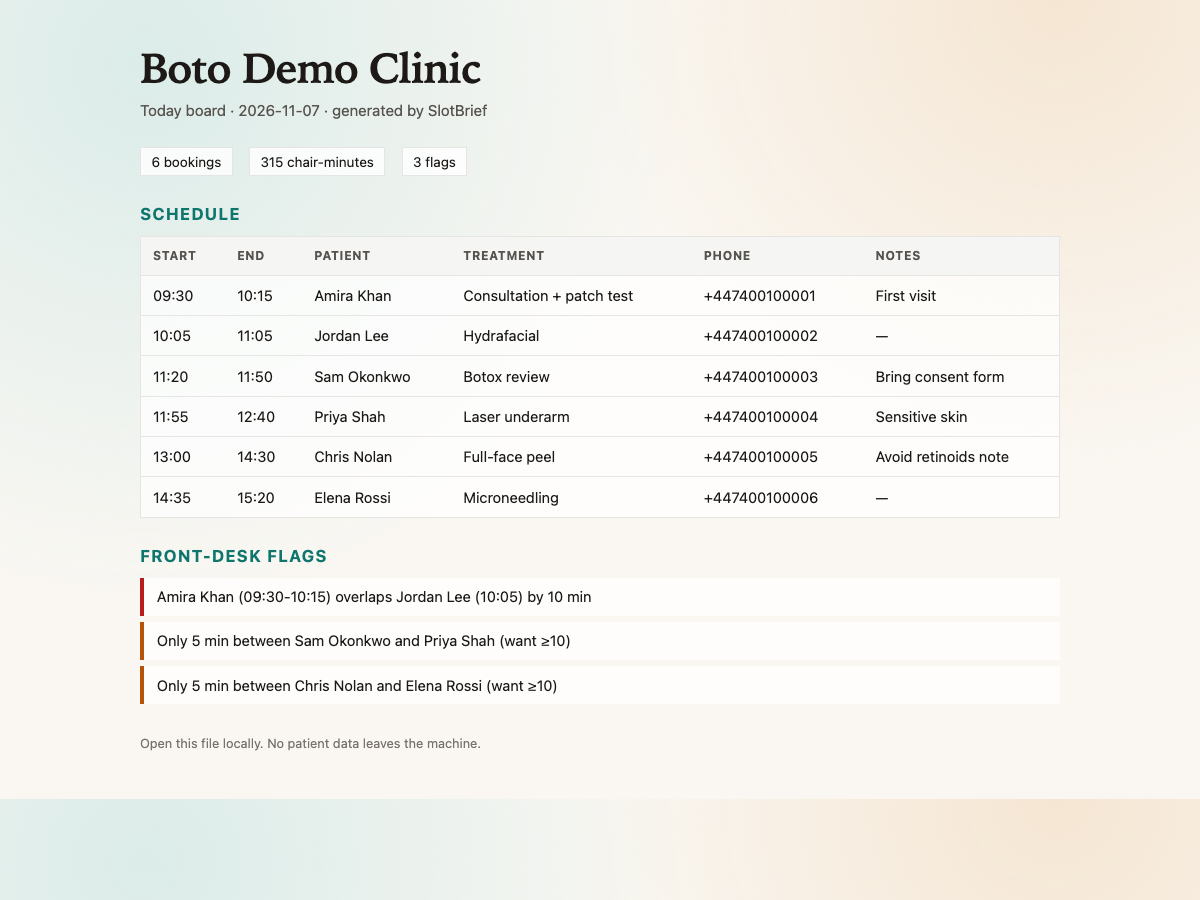
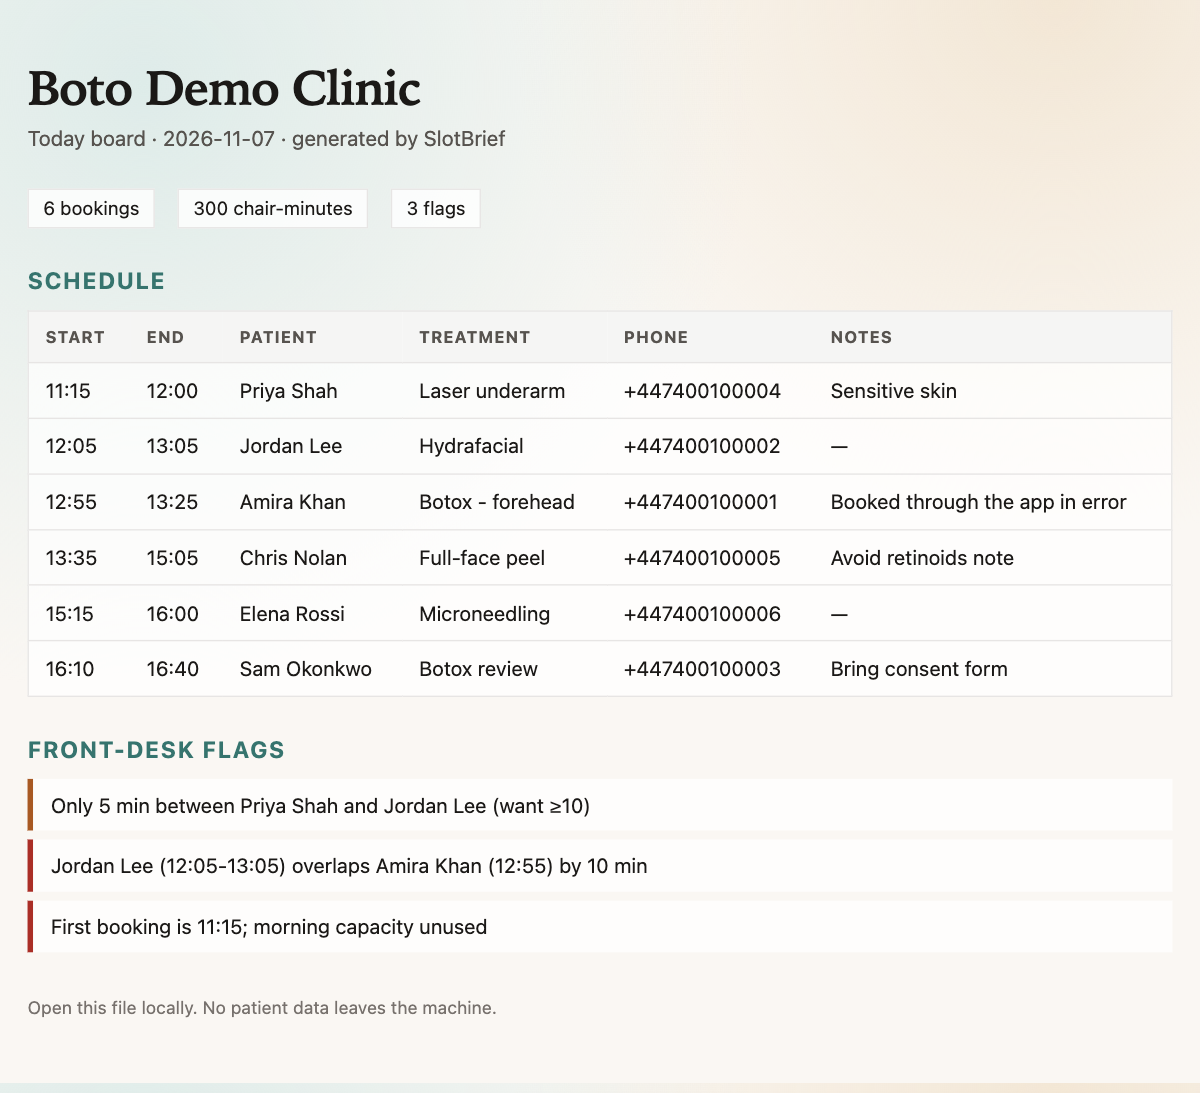
Add demo sample with every flag, regenerate screenshot set, refresh README.
- samples/demo-day.csv seeded so overlap, gap and late_start each fire exactly once
- Screenshots regenerated from real outputs: day CLI (now lists day.ics), board,
  confirmations, plus new week board and week CLI summary
- README: week mode, --hours utilisation, date column, updated artifact/screenshot lists

diff --git a/README.md b/README.md
@@ -2,7 +2,7 @@
 
 Front-desk briefing packs for indie aesthetics clinics.
 
-Paste one day's appointments into a CSV. SlotBrief flags overlaps and tight turnarounds, drafts patient confirmation texts, and writes a local HTML today-board you can open in a browser. No accounts, no cloud, no patient data leaving the machine.
+Paste one day's — or one whole week's — appointments into a CSV. SlotBrief flags overlaps and tight turnarounds, drafts patient confirmation texts, writes a local HTML board you can open in a browser, and exports an importable calendar file. No accounts, no cloud, no patient data leaving the machine.
 
 Built solo for [Next Byte Hacks V5](https://next-byte-hacks-v5.devpost.com) (7 Nov 2026). The wedge matches work I do on [Boto](https://boto.clinic): clinic ops that stay useful when the Wi-Fi dies.
 
@@ -12,19 +12,27 @@ Small clinics often live in a spreadsheet and a WhatsApp thread. Double-bookings
 
 1. A **today board** (schedule + flags)
 2. Ready-to-send **confirmation drafts**
-3. An **`day.ics` calendar file** (RFC 5545) you can import into Apple Calendar / Google Calendar
+3. A **calendar file** (`day.ics` / `week.ics`, RFC 5545) that drops into Apple Calendar or Google Calendar
 4. A machine-readable **report.json** for later tooling
 
 ## Quick start
 
 ```bash
-python3 slotbrief.py samples/day.csv \
+# one day — every flag firing in a single sample
+python3 slotbrief.py samples/demo-day.csv \
   --clinic "Boto Demo Clinic" \
   --day 2026-11-07 \
   --out out
+
+# a whole week (Mon–Fri sample in samples/week/)
+python3 slotbrief.py --week samples/week/ \
+  --clinic "Boto Demo Clinic" \
+  --out out/week
 ```
 
 Open `out/today-board.html` in a browser. Read `out/confirmations.txt`. Double-click `out/day.ics` to drop the day into your calendar. Inspect `out/report.json`.
+
+Week mode writes `week-board.html`, `week.ics`, confirmations grouped per day, and a `report.json` with a block per day plus weekly totals.
 
 ## CSV columns
 
@@ -36,6 +44,9 @@ Open `out/today-board.html` in a browser. Read `out/confirmations.txt`. Double-c
 | `treatment` | yes | `Hydrafacial` |
 | `phone` | yes | `+4474…` |
 | `notes` | no | `First visit` |
+| `date` | for `--week` on a single CSV | `2026-11-03` |
+
+For `--week`, pass either one CSV with a `date` column or a directory of files named `YYYY-MM-DD.csv` — which is exactly what `samples/week/` is. Single-day runs ignore `date`, so existing CSVs keep working unchanged.
 
 ## Flags
 
@@ -43,20 +54,32 @@ Open `out/today-board.html` in a browser. Read `out/confirmations.txt`. Double-c
 - **gap** — turnaround shorter than `--min-gap` (default 10 minutes)
 - **late_start** — first booking is at/after 11:00 (morning capacity unused)
 
+Week mode additionally reports **utilisation**: booked chair-minutes as a share of the `--hours` open window (default `09:00-18:00`). It is deliberately uncapped — over 100% means the chairs are double-booked.
+
+## How week mode works
+
+Rows are grouped by date *before* analysis, so `analyse()` runs once per day: Friday 16:00 is never compared against Monday 09:00 as if they shared a timeline. Every day reuses the exact same flag logic as single-day mode, then totals, busiest day and utilisation roll up into `report.json`.
+
 ## Tests
 
 ```bash
 python3 -m unittest discover -s tests -v
 ```
 
+18 tests covering flag logic, RFC 5545 escaping/folding/UIDs, week grouping and aggregation, and CLI round-trips for both modes.
+
 ## Screenshots
 
-See `screenshots/` for the CLI summary and the generated today board.
+- `screenshots/01-cli-summary.png` — day run with all three flags firing and the calendar export listed
+- `screenshots/02-today-board.png` — the generated today board
+- `screenshots/03-confirmations.png` — ready-to-send confirmation drafts
+- `screenshots/04-week-board.png` — week board: five days, per-day schedules, flags and utilisation
+- `screenshots/05-week-summary.png` — week CLI summary with per-day roll-up
 
 ## Stack
 
-- Python 3.10+ standard library only (`argparse`, `csv`, `json`, `html`, `datetime`)
-- Static HTML/CSS for the board
+- Python 3.9+ standard library only (`argparse`, `csv`, `json`, `html`, `datetime`, `dataclasses`, `hashlib`, `itertools`)
+- Static HTML/CSS for the boards, RFC 5545 for the calendar
 
 ## What I would add next
 
